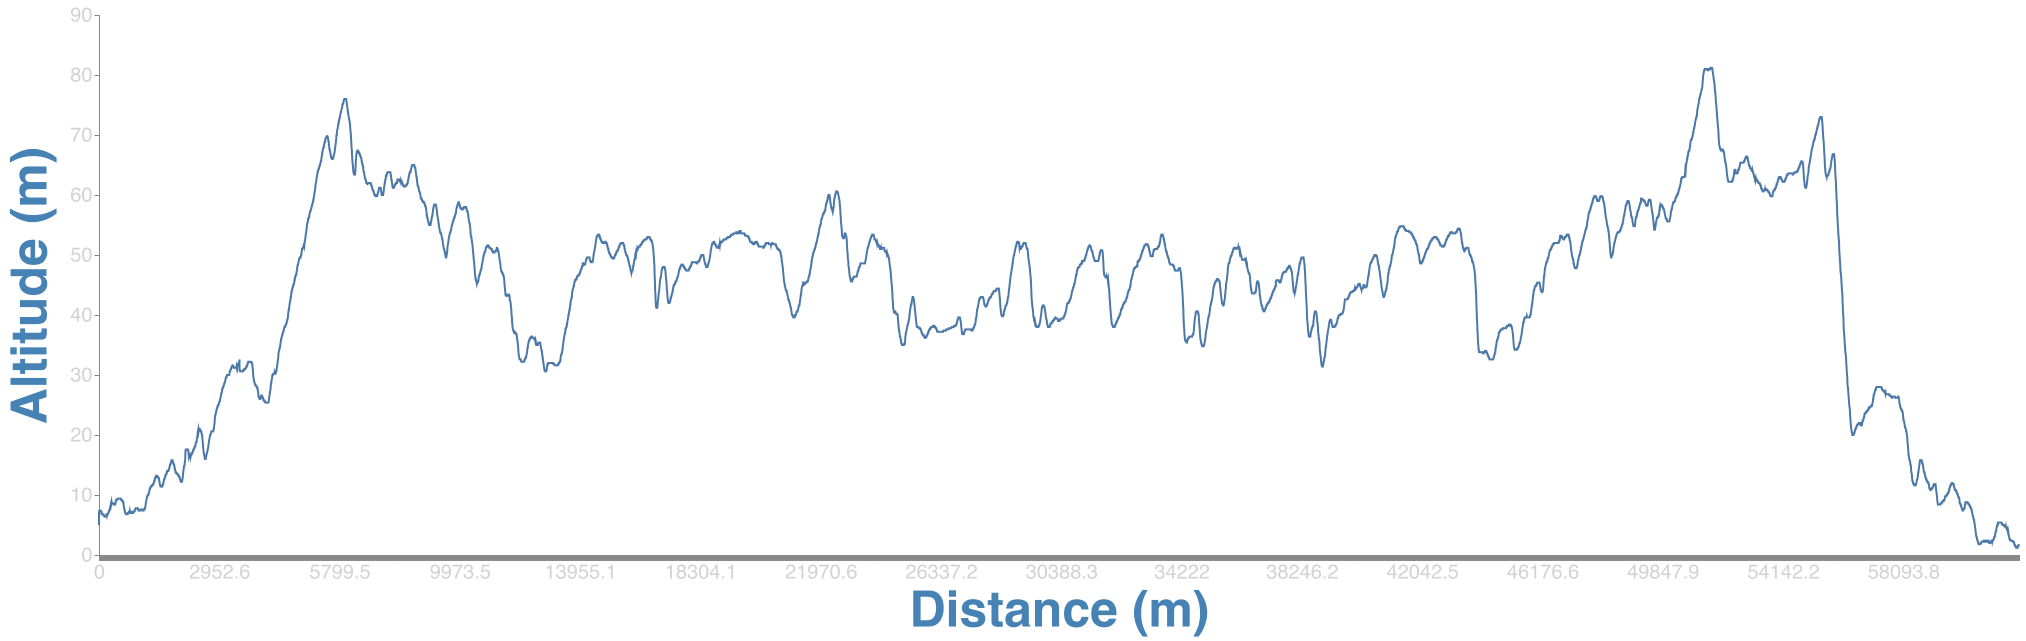
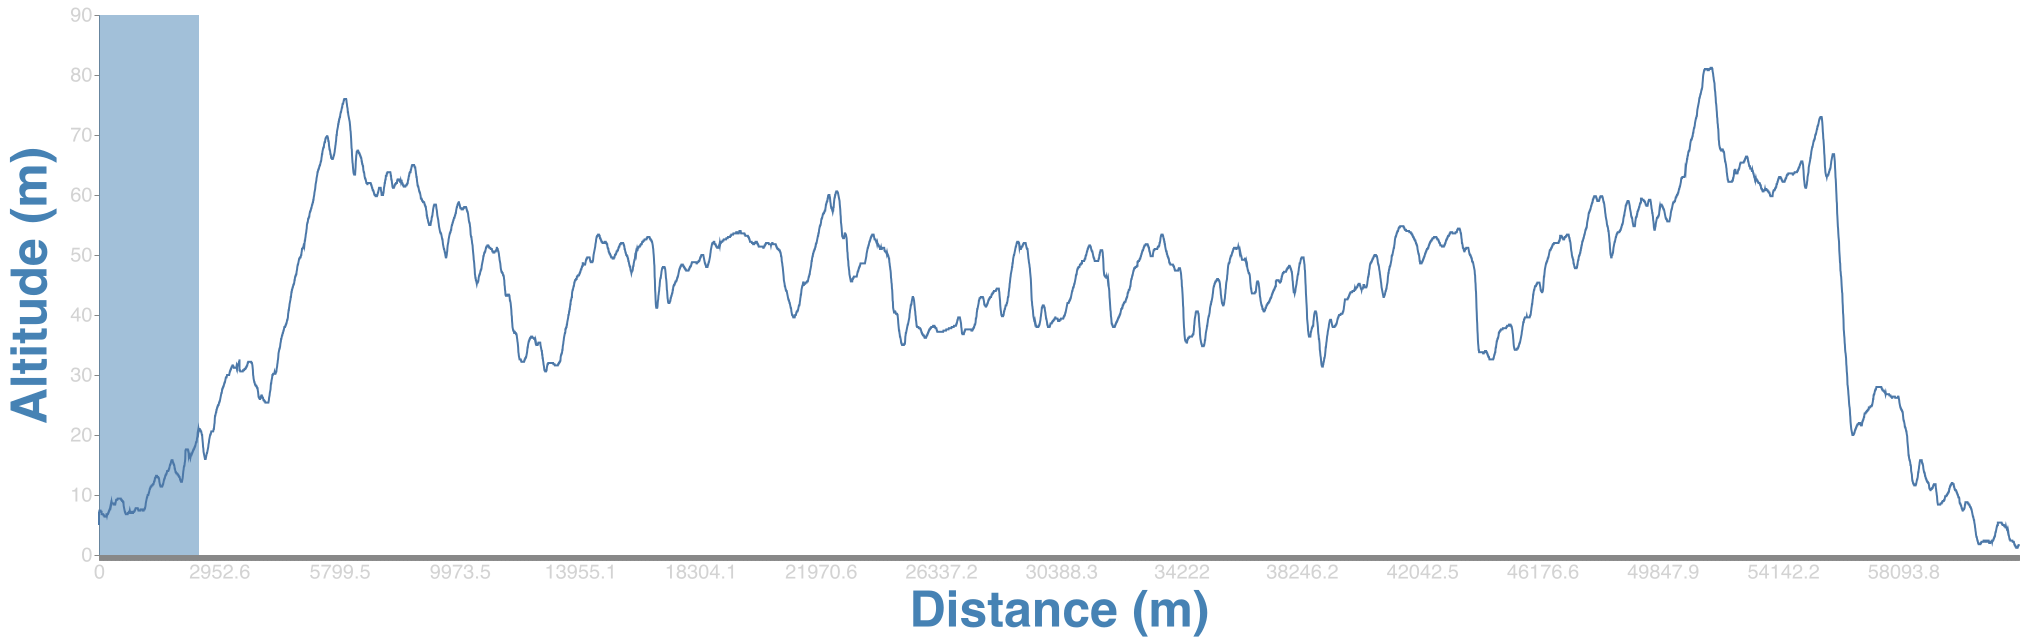
successfully printing one hill to ride graph

Changed region(s): [[0.0311, 0.0, 0.1244, 0.8736]]

diff --git a/src/graphRides.js b/src/graphRides.js
@@ -39,6 +39,10 @@ const lineChartSpec = {
 			name: "table",
 			values: [],
 		},
+		{
+			name: "hills",
+			values: [],
+		},
 	],
 
 	scales: [
@@ -92,6 +96,20 @@ const lineChartSpec = {
 
 	marks: [
 		{
+			type: "rect",
+			from: { data: "hills" },
+			encode: {
+				enter: {
+					x: { scale: "x", field: "xStart" },
+					x2: { field: "xEnd" },
+					y: { value: 0 },
+					y2: { value: 540 },
+					fill: { value: "steelblue" },
+					fillOpacity: { value: 0.5 },
+				},
+			},
+		},
+		{
 			type: "group",
 			from: {
 				facet: {
@@ -130,6 +148,11 @@ const dataPointSpec = {
 	y: 0,
 };
 
+const hillSpec = {
+	xStart: 0,
+	xEnd: 0,
+};
+
 /**
  * Writes a PNG file with the alttiude graph of the given ride
  *
@@ -147,6 +170,17 @@ function drawRideAltitude(ride) {
 		dataPoint.y = ride.altitude_stream.data[i];
 		rideChartSpec.data[0].values.push(dataPoint);
 	}
+
+	// Add a test hill to the chart
+	let hill = Object.create(hillSpec);
+	hill.xStart = 0;
+	hill.xEnd = 100;
+	rideChartSpec.data[1].values.push(hill);
+
+	let hill2 = Object.create(hillSpec);
+	hill2.xStart = 200;
+	hill2.xEnd = 300;
+	rideChartSpec.data[1].values.push(hill2);
 
 	// create a new view instance for a given Vega JSON spec
 	var view = new vega.View(vega.parse(rideChartSpec))
